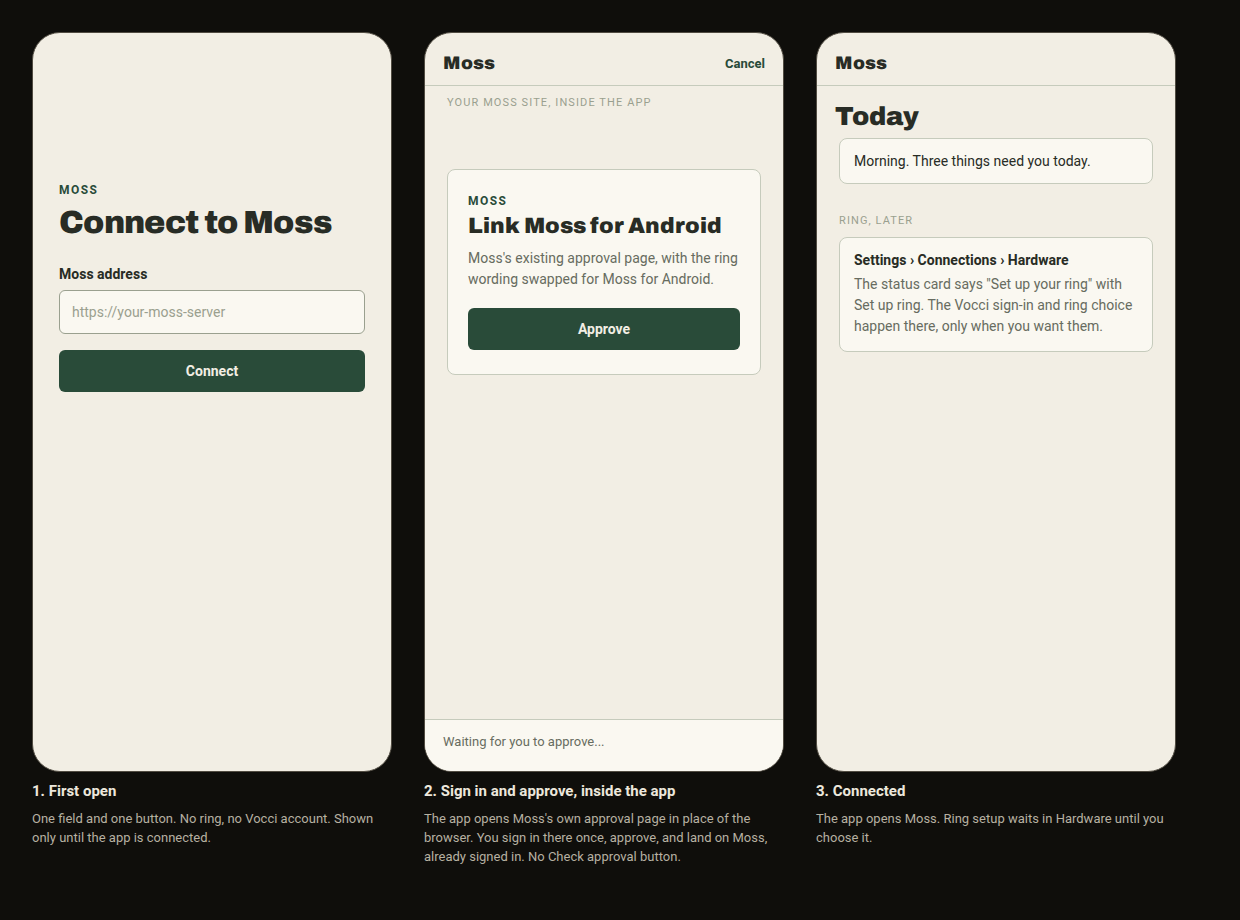
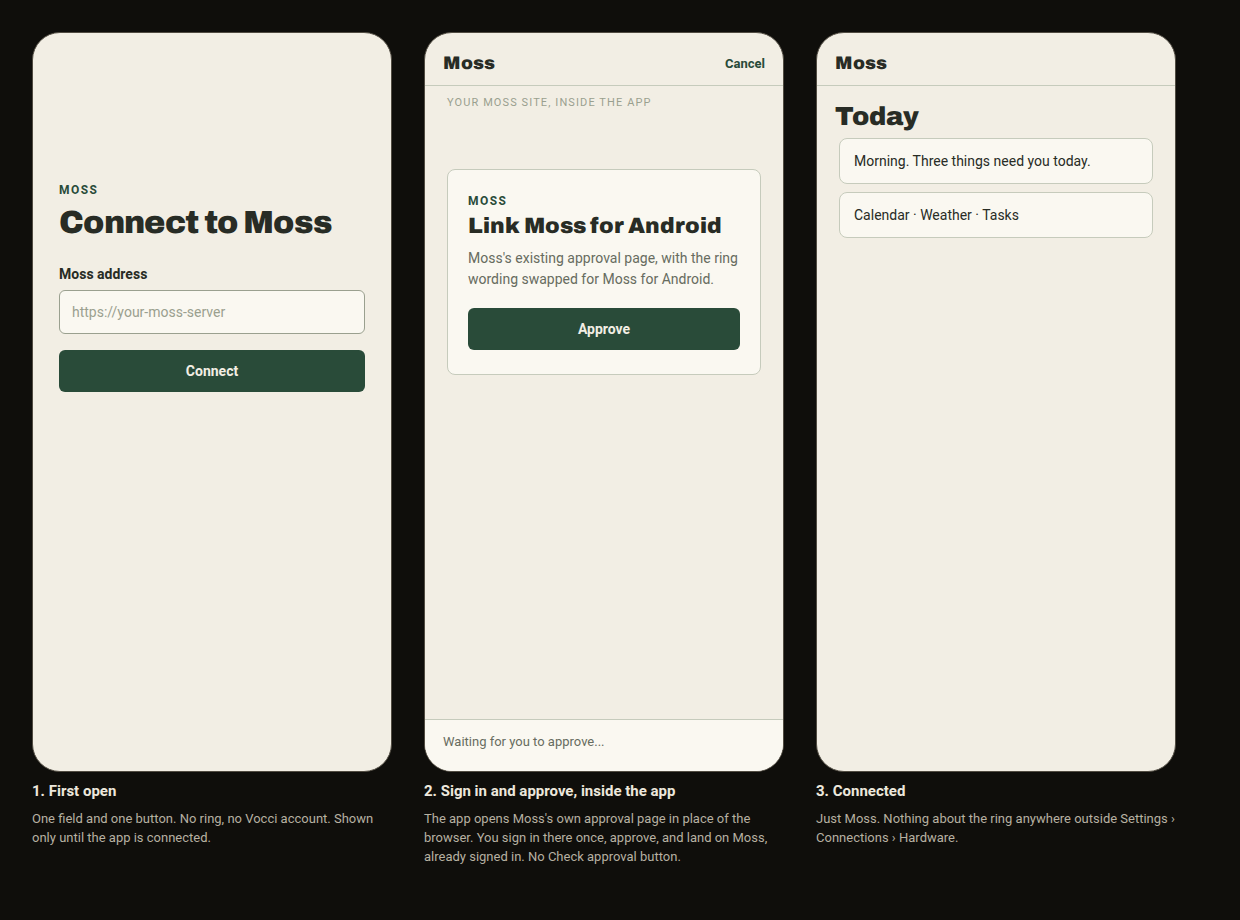
docs(vocci): no ring mention outside Hardware (#3761)

Changed region(s): [[0.6742, 0.2739, 0.9194, 0.3652], [0.6435, 0.8826, 0.95, 0.913], [0.6742, 0.213, 0.8274, 0.2435]]

diff --git a/docs/superpowers/mockups/moss-android-hardware/setup.html b/docs/superpowers/mockups/moss-android-hardware/setup.html
@@ -35,8 +35,7 @@ body{margin:0;background:#0f0e0b;display:flex;gap:32px;padding:32px;font-family:
 <div class="bar"><b>Moss</b><span></span></div>
 <div style="font-family:Archivo;font-size:26px;margin:16px 18px 8px">Today</div>
 <div class="card" style="margin-top:8px;padding:14px">Morning. Three things need you today.</div>
-<div class="ghost" style="margin-top:30px">RING, LATER</div>
-<div class="card" style="margin-top:4px;padding:14px"><b>Settings &rsaquo; Connections &rsaquo; Hardware</b><p style="margin:6px 0 0">The status card says "Set up your ring" with Set up ring. The Vocci sign-in and ring choice happen there, only when you want them.</p></div>
+<div class="card" style="margin-top:8px;padding:14px">Calendar &middot; Weather &middot; Tasks</div>
 </div><div class="cap">3. Connected</div>
-<div class="capsub">The app opens Moss. Ring setup waits in Hardware until you choose it.</div></div>
+<div class="capsub">Just Moss. Nothing about the ring anywhere outside Settings &rsaquo; Connections &rsaquo; Hardware.</div></div>
 </body></html>

diff --git a/docs/superpowers/specs/2026-10-25-moss-for-android.md b/docs/superpowers/specs/2026-10-25-moss-for-android.md
@@ -30,7 +30,7 @@ Task: #3761. Builds on the ring app layout spec, `2026-10-25-vocci-ring-app-layo
 
 1. First open: Connect to Moss
 2. Sign in and approve on Moss's approval page, inside the app
-3. Connected: Moss opens; ring setup waits in Hardware
+3. Connected: just Moss
 
 ## Decisions
 
@@ -105,6 +105,8 @@ One scrolling native page. It merges PR 3760's Home and Settings screens, in thi
 - Picks up at the Vocci account step, reusing the existing Moss link. The Moss section leaves the ring
   setup screen.
 - Setting up or redoing the ring never disconnects Moss. Only Account, Disconnect does that.
+- Outside Hardware, the app never mentions the ring: no prompt, banner or notification after
+  connecting.
 - With a Moss link and no ring, the status card shows "Set up your ring" with Set up ring as its button,
   and no ring problem notification is posted.
 
